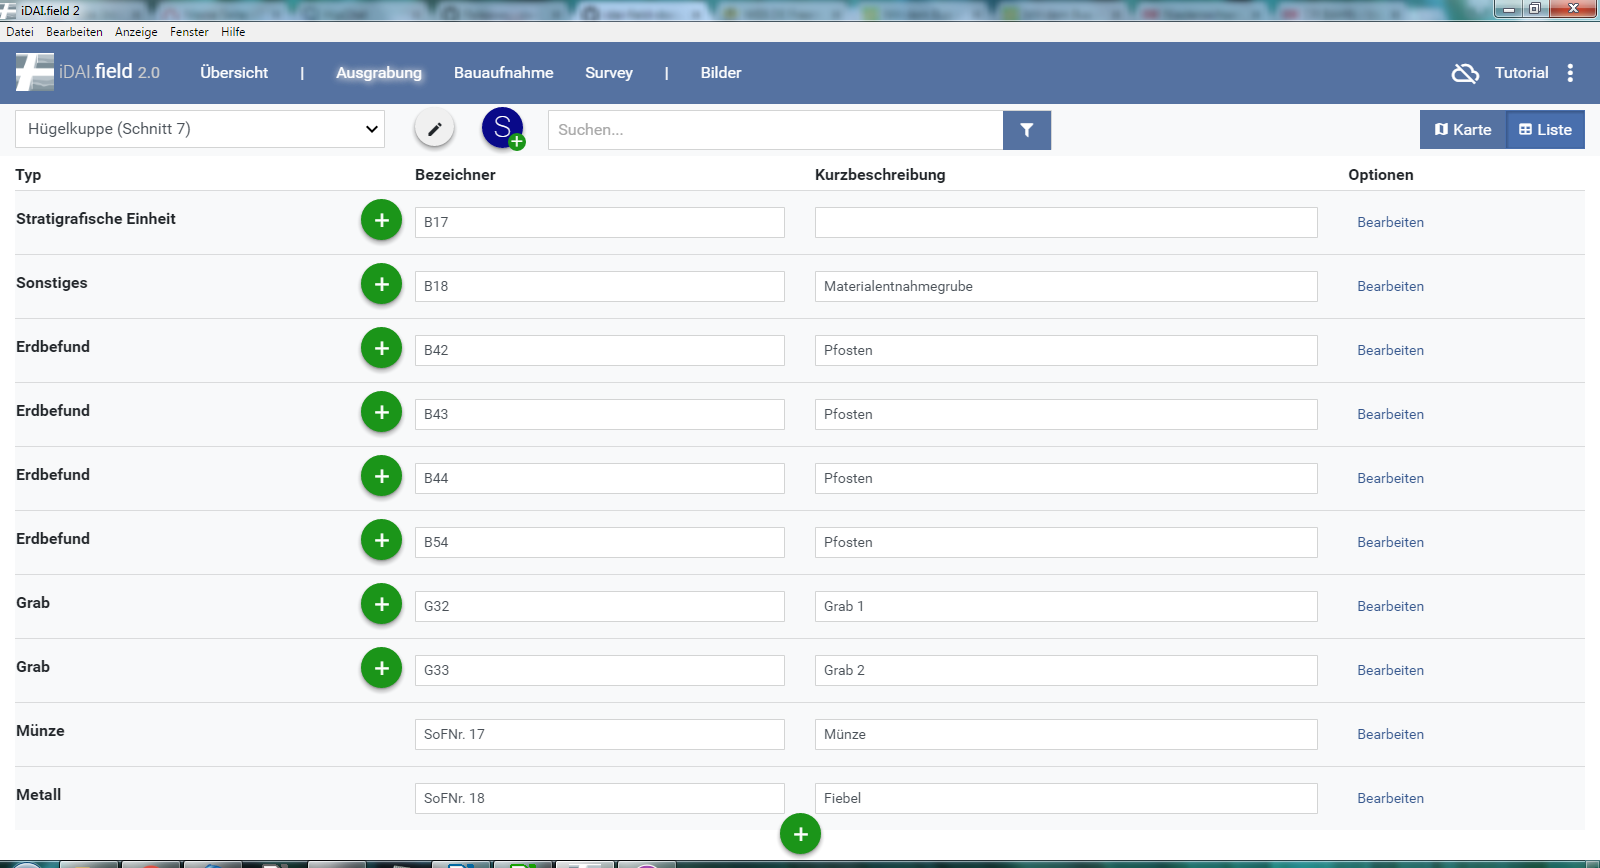
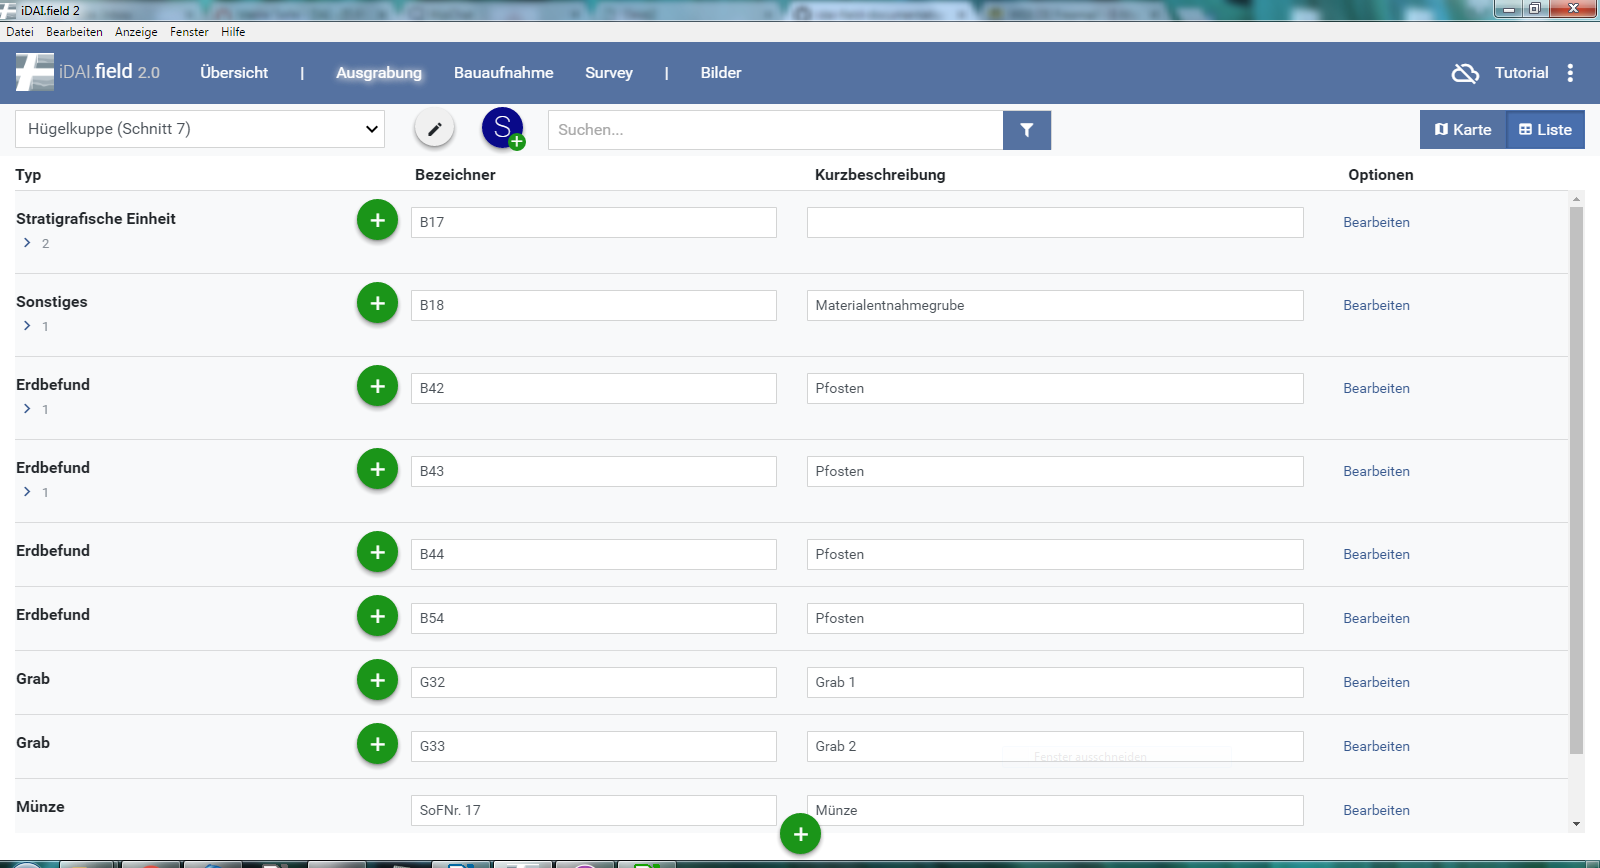
basics

diff --git a/manual/08._basics/README.md b/manual/08._basics/README.md
@@ -15,6 +15,13 @@ wie die Bezeichnung und die Kurzbeschreibung.
 ![handbuch_basics_01](images/handbuch_basics_01.PNG)
 *Abb 22: Listenansicht*
 
+Werden unter den Ressourcen weitere, untergliederte Ressourcen angelegt, werden diese in der Listenansicht
+unter der oberliegenden Ressource angezeigt. Standartmäßig sind diese eingklappt und durch einen grauen Pfeil
+markiert. Durch einfaches Klicken auf diesen werden diese Ressourcen angezeigt (Abb. 23).
+
+![handbuch_basics_02](images/handbuch_basics_02.PNG)
+*Abb 23: Listenansicht*
+
 ### 8.2 Suchen
 
 In der Suchleiste ist es möglich, nach Namen von Ressourcen oder nach
@@ -24,5 +31,5 @@ gesuchte übrig bleibt.\
 Bei der Anwendung der Filter werden alle Ressourcen aus dem ausgewählten
 Filter angezeigt.
 
-![handbuch_basics_02](images/handbuch_basics_02.PNG)\
-*Abb 23: Suchfeld*
+![handbuch_basics_03](images/handbuch_basics_03.PNG)\
+*Abb 24: Suchfeld*
